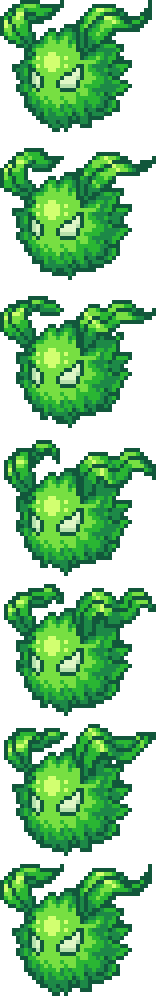
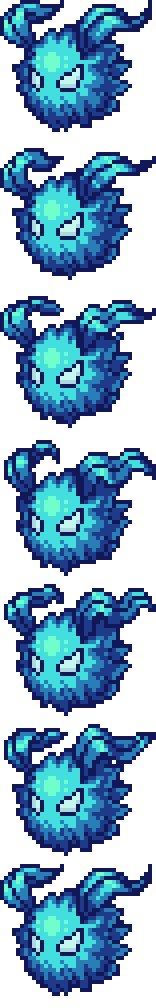
[mod] 몬스터 이미지 교체 & 코드 summary 추가.

diff --git a/Assets/Scripts/Scene/Controller/GameSceneController.cs b/Assets/Scripts/Scene/Controller/GameSceneController.cs
@@ -214,7 +214,10 @@ public class GameSceneController : BaseSceneController
 
         SetPlayTime();
     }
-
+    /// <summary>
+    /// InGameUI HP 텍스트 셋팅.
+    /// </summary>
+    /// <param name="_hp">hp 수치</param>
     private void SetHpText(float _hp)
     {
         if (_hp <= 0)
@@ -224,21 +227,29 @@ public class GameSceneController : BaseSceneController
         hpText.text = $"{hpStringBuilder}";
         playerHpBar.fillAmount = _hp / playerMaxHp;
     }
-
+    /// <summary>
+    /// InGameUI Gold 텍스트 셋팅.
+    /// </summary>
+    /// <param name="_gold">gold 수치</param>
     private void SetGoldText(float _gold)
     {
         goldStringBuilder.Clear();
         goldStringBuilder.Append(_gold);
         goldText.text = $"{goldStringBuilder}";
     }
-
+    /// <summary>
+    /// InGameUI Wave 텍스트 셋팅.
+    /// </summary>
+    /// <param name="_wave">wave 수치</param>
     private void SetWaveText(int _wave)
     {
         waveStringBuilder.Clear();
         waveStringBuilder.Append(_wave);
         waveText.text = $"{waveStringBuilder}";
     }
-
+    /// <summary>
+    /// 게임 일시정지 버튼.
+    /// </summary>
     private async void OnClickGameStopButton()
     {
         SetPlaying(false);
@@ -246,7 +257,9 @@ public class GameSceneController : BaseSceneController
         var popup = await uIManager.Show<PausePopupController>("PausePopup");
         popup.SetCallback(SetPlaying);
     }
-
+    /// <summary>
+    /// Wave 시작할때 호출.
+    /// </summary>
     private async void StartGameWave()
     {
         await CreateMonster();
@@ -285,7 +298,9 @@ public class GameSceneController : BaseSceneController
         SetWaveText(gameWave);
         SetHpText(currentPlayerHp);
     }
-
+    /// <summary>
+    /// Wave 끝났을때 호출.
+    /// </summary>
     private async void EndGameWave()
     {
         SetPlaying(false);
@@ -378,7 +393,11 @@ public class GameSceneController : BaseSceneController
         await MoveMonster(monsterMoveCancel = new CancellationTokenSource());
     }
 
-    // 몬스터 실시간 플레이어 위치로 이동..추후 수정해야함.
+    /// <summary>
+    /// 몬스터 상태에 따른 추격 및 공격 함수.
+    /// </summary>
+    /// <param name="_cancellationToken">UniTask Cancel Token</param>
+    /// <returns></returns>
     private async UniTask MoveMonster(CancellationTokenSource _cancellationToken)
     {
         while (!_cancellationToken.IsCancellationRequested)
@@ -419,6 +438,10 @@ public class GameSceneController : BaseSceneController
     }
 
     #region MapCreate
+    /// <summary>
+    /// 맵 정보 초기화
+    /// </summary>
+    /// <param name="_info">맵 정보 객체</param>
     public void MapInfoInit(MapInfo _info)
     {
         backgroundSpriteRenderer.color = _info.MapBackgroundColor;
@@ -445,6 +468,10 @@ public class GameSceneController : BaseSceneController
         spriteRenderer.sortingOrder = -10;
         boundarySpriteRenderer.sortingOrder = -8;
     }
+    /// <summary>
+    /// 맵안에 장애물 정보 초기화
+    /// </summary>
+    /// <param name="_info">장애물 정보 객체</param>
     public void ObstructionInit(ObstructionInfo _info)
     {
         float positionX = _info.obstructionPositionX;
@@ -511,7 +538,11 @@ public class GameSceneController : BaseSceneController
         await CheckCollisionMonster(monsterCheckCollisionCancel = new CancellationTokenSource());
     }
 
-    // 몬스터 실시간 플레이어 위치로 이동..추후 수정해야함.
+    /// <summary>
+    /// 플레이어 AABB 충돌 체크
+    /// </summary>
+    /// <param name="_cancellationToken">UniTask CancelToken</param>
+    /// <returns></returns>
     private async UniTask CheckCollisionMonster(CancellationTokenSource _cancellationToken)
     {
         while (!_cancellationToken.IsCancellationRequested)
@@ -533,7 +564,11 @@ public class GameSceneController : BaseSceneController
             await UniTask.Yield();
         }
     }
-
+    /// <summary>
+    /// 플레이어 공격 범위 체크 후 공격 가능한 몬스터 객체 반환.
+    /// </summary>
+    /// <param name="_range">플레이어 공격 범위</param>
+    /// <returns></returns>
     public EnemyObject GetTargetEnemy(float _range)
     {
         if (playerTransform == null)
@@ -548,7 +583,12 @@ public class GameSceneController : BaseSceneController
         }
         return null;
     }
-
+    /// <summary>
+    /// 원거리 몬스터 공격 범위 가능한지 체크.
+    /// </summary>
+    /// <param name="_enemy">원거리 몬스터 객체</param>
+    /// <param name="_range">공격 범위</param>
+    /// <returns></returns>
     public bool PossibleAttackPlayerMonsterBullet(EnemyObject _enemy, float _range)
     {
         if (playerTransform != null)
@@ -615,7 +655,11 @@ public class GameSceneController : BaseSceneController
                 isMove = false;
         }
     }
-
+    /// <summary>
+    /// 원거리 몬스터 거리 계산 후 공격.
+    /// </summary>
+    /// <param name="_enemy">원거리 공격을 하는 몬스터 객체</param>
+    /// <returns></returns>
     public async UniTaskVoid FireMonsterBullet(EnemyObject _enemy)
     {
         var obj = (Bullet)bulletPool.GetObject();
@@ -757,7 +801,13 @@ public class GameSceneController : BaseSceneController
         }
         SetDamageText(damage, monster.GetHUDTransform().position, Color.black).Forget();
     }
-
+    /// <summary>
+    /// 데미지 HUD 텍스트 띄우는 함수.
+    /// </summary>
+    /// <param name="_attackPower">데미지 수치</param>
+    /// <param name="_position">HUD Position</param>
+    /// <param name="_damageColor">데미지 Text Color</param>
+    /// <returns></returns>
     private async UniTaskVoid SetDamageText(float _attackPower, Vector3 _position, Color _damageColor)
     {
         var text = (DamageText)damageTextPool.GetObject();

diff --git a/Assets/Scripts/Battle/DamageText.cs b/Assets/Scripts/Battle/DamageText.cs
@@ -16,7 +16,12 @@ public class DamageText : MonoBehaviour, IPoolable
         damageText = GetComponent<TextMeshProUGUI>();
         transitionManager = TransitionManager.getInstance;
     }
-
+    /// <summary>
+    /// 데미지 셋팅 함수.
+    /// </summary>
+    /// <param name="_damage">데미지 수치</param>
+    /// <param name="_position">HUD Position</param>
+    /// <param name="_color">데미지 텍스트 컬러</param>
     public void SetDamage(float _damage, Vector3 _position, Color _color)
     {
         gameObject.transform.position = _position;
@@ -33,19 +38,25 @@ public class DamageText : MonoBehaviour, IPoolable
         OnActivate();
         transitionManager.Play(TransitionManager.TransitionType.Invisible, 1.5f, Vector3.zero, gameObject);                
     }
-
+    /// <summary>
+    /// Damage Text 리셋 함수.
+    /// </summary>
     public void ResetText()
     {
         transitionManager.KillSequence(TransitionManager.TransitionType.Invisible);
         damageText.alpha = 1f;
         OnDeactivate();
     }
-    
+    /// <summary>
+    /// SetActive(true)
+    /// </summary>
     public void OnActivate()
     {
         gameObject.SetActive(true);
     }
-
+    /// <summary>
+    /// SetActive(false)
+    /// </summary>
     public void OnDeactivate()
     {
         gameObject.SetActive(false);

diff --git a/Assets/Scripts/Battle/Enemy/EnemyObject.cs b/Assets/Scripts/Battle/Enemy/EnemyObject.cs
@@ -101,14 +101,26 @@ public class EnemyObject : MonoBehaviour, IPoolable
     {
         return nowState;
     }
+    /// <summary>
+    /// 몬스터 타입 반환 함수.
+    /// </summary>
+    /// <returns>MonsterType</returns>
     public MonsterType GetMonsterType()
     {
         return type;
     }
+    /// <summary>
+    /// 몬스터 공격력 반환 함수.
+    /// </summary>
+    /// <returns></returns>
     public float GetAttackPower()
     {
         return attackPower;
     }
+    /// <summary>
+    /// 몬스터 공격 범위 반환 함수.
+    /// </summary>
+    /// <returns></returns>
     public float GetAttackRange()
     {
         return attackDistance;

diff --git a/Assets/Scripts/Player/PlayerController.cs b/Assets/Scripts/Player/PlayerController.cs
@@ -49,7 +49,10 @@ public class PlayerController : BasePlayerController
             mapSizeHeight = value.y * HALF - (transform.localScale.y + HALF); // * -> + 로 변경..맵 끝과 플레이어 자기 자신의 크기 반절만큼 덜 가기위해...
         }
     }
-
+    /// <summary>
+    /// 플레이어 최대 hp 반환.
+    /// </summary>
+    /// <returns>hp</returns>
     public float GetMaxHP()
     {
         return hp;

diff --git a/Assets/Scripts/Battle/Weapon/Bullet.cs b/Assets/Scripts/Battle/Weapon/Bullet.cs
@@ -46,7 +46,10 @@ public class Bullet : MonoBehaviour, IPoolable
             spriteRenderer.sprite = Resources.Load<Sprite>($"Weapon/{_type}");
         }
     }
-
+    /// <summary>
+    /// 원거리 몬스터 총알 Sprite 지정 함수.
+    /// </summary>
+    /// <param name="_transform">플레이어 Transform</param>
     public void SetMonsterBulletSprite(Transform _transform)
     {
         playerTransform = _transform;

diff --git a/Assets/Scripts/Common/Manager/TimeManager.cs b/Assets/Scripts/Common/Manager/TimeManager.cs
@@ -15,12 +15,16 @@ public class TimeManager : Singleton<TimeManager>
     {
         time = 0;
     }
-
+    /// <summary>
+    /// timeScale = 0
+    /// </summary>
     public void PauseTime()
     {
         Time.timeScale = 0f;
     }
-
+    /// <summary>
+    /// timeScale = 1
+    /// </summary>
     public void PlayTime()
     {
         Time.timeScale = 1f;
